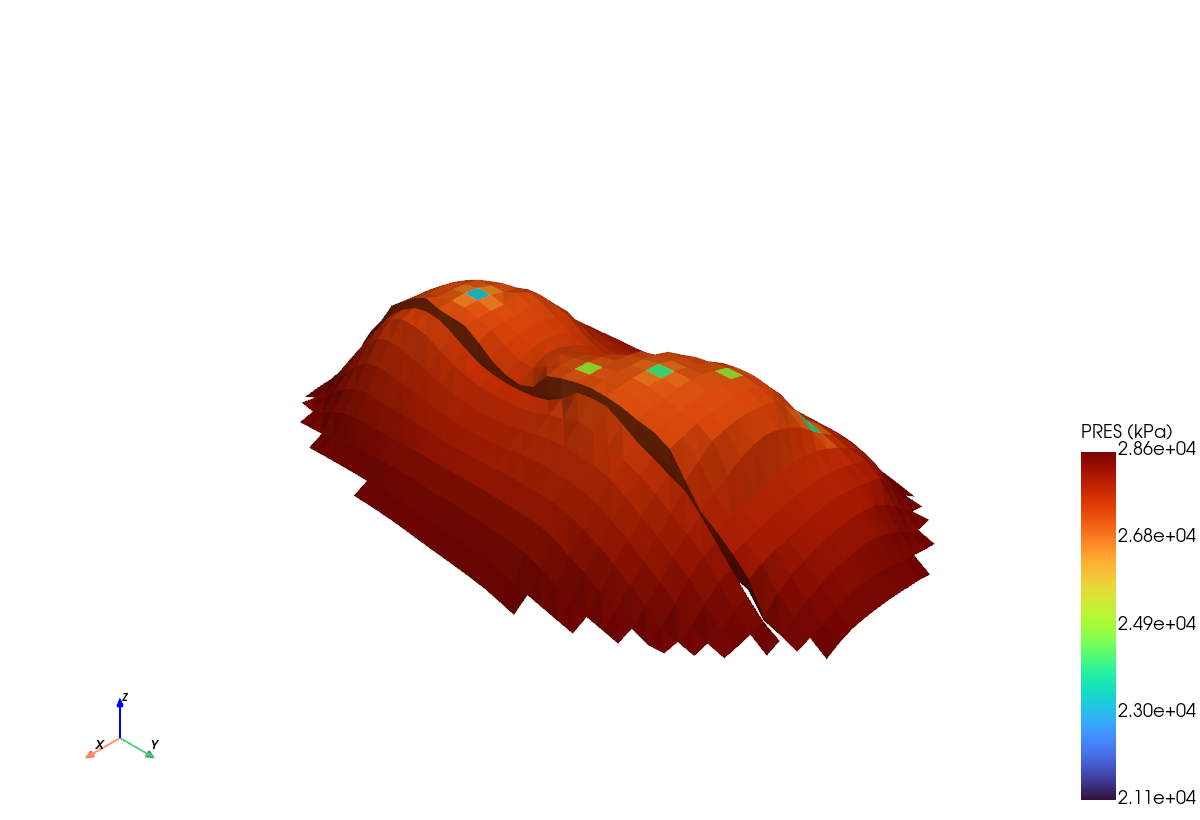
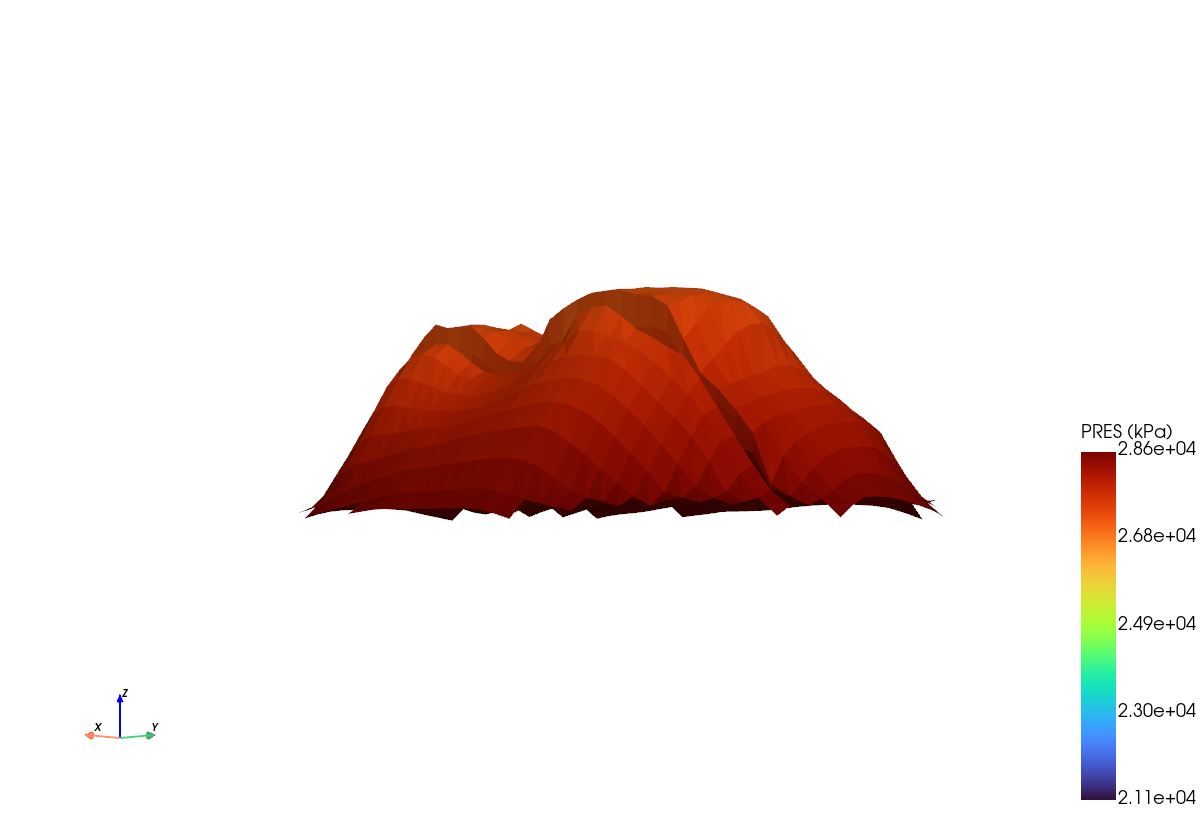
docs: use PyVista set_scale for display exaggeration; add comparison figure
- §3 now leads with the native Plotter.set_scale (view-only, no copy) and a
  flattened -> true -> exaggerated comparison image; helper uses scale/flip_z.
- §4 plots the true grid with set_scale(zscale=-8) instead of a points copy.

Changed region(s): [[0.2467, 0.3354, 0.8017, 0.7927], [0.0617, 0.8841, 0.1542, 0.9146]]

diff --git a/docs/user-guide/tutorials/inspect-hm-model.zh.md b/docs/user-guide/tutorials/inspect-hm-model.zh.md
@@ -62,18 +62,33 @@ PRES range: 21073.6 28643.4
 !!! tip "`.iloc[:, 0]`"
     `map_prop` 返回带标签的 DataFrame（每个关键字×时间对应一列）。对于单个关键字/时间步，`.iloc[:, 0].to_numpy()` 即为单元数组。
 
-## 3. 显示辅助函数（depth-up + 垂向夸张）
+## 3. 垂向夸张与 depth-up 显示
 
-该模型以**深度**形式存储 Z 值（正值，约 3000 m），且横向范围远大于纵向厚度。为获得良好的三维场景效果，需翻转为 Z 向上并对垂向进行夸张处理。此操作**仅用于显示**，切勿用于计算。
+该模型以**深度**形式存储 Z 值（正值，约 3000 m；横向约 4 km，而厚度仅约 180 m）——在真实比例下看起来像一张平板，因此三维场景通常会对垂向进行夸张，并翻转深度使浅部朝上。
+
+最简单的原生方式是 **`Plotter.set_scale`**，它只缩放*视图*。数据仍保持真实坐标，因此切片、映射和导出都不受影响——无需复制，也无需改写点数组：
 
 ```python
-def display_grid(grid, exaggerate=8.0):
-    """Return a depth-up, vertically exaggerated copy for visualization."""
-    disp = grid.copy(deep=True)
-    pts = np.asarray(disp.points).copy()
-    pts[:, 2] = (pts[:, 2].max() - pts[:, 2]) * exaggerate
-    disp.points = pts
-    return disp
+plotter.add_mesh(grid, scalars="PRES", cmap="turbo")
+plotter.set_scale(zscale=8)                      # 8x vertical exaggeration (display only)
+
+# each axis scales independently; a negative value flips that axis,
+# so a negative zscale turns positive-down depth into "up":
+plotter.set_scale(xscale=1, yscale=1, zscale=-8)
+```
+
+同一属性在真实比例（平坦）→ 中等夸张 → 强夸张下的对比：
+
+![垂向夸张](../../assets/images/guide_exaggeration.png)
+
+如果只是想*查看*网格，`set_scale` 已足够。下文有几节还会**切片和绘制等值线**，因此会构建一份显示副本——同样使用 PyVista 的原生缩放（`scale` + `flip_z`），而非手动改写点坐标：
+
+```python
+def display_grid(grid, exaggerate=6.0):
+    """Depth-up, vertically exaggerated copy — for display only, not for math."""
+    return grid.scale((1, 1, exaggerate), inplace=False).flip_z(inplace=False)
+
+disp = display_grid(grid)
 ```
 
 详见[坐标系与显示比例](../concepts/coordinate-system.md)中的原理说明。
@@ -84,16 +99,15 @@ def display_grid(grid, exaggerate=8.0):
 import pyvista as pv
 # pv.OFF_SCREEN = True   # uncomment on a headless server
 
-disp = display_grid(grid)
-
 plotter = pv.Plotter(window_size=(1200, 820))
 plotter.set_background("white")
 plotter.add_mesh(
-    disp,
+    grid,
     scalars="PRES",
     cmap="turbo",
     scalar_bar_args={"title": "PRES (kPa)", "vertical": True},
 )
+plotter.set_scale(zscale=-8)       # depth-up + 8x exaggeration (display only)
 plotter.add_axes()
 plotter.camera_position = "iso"
 plotter.show()                     # or: plotter.screenshot("pres_3d.png")

diff --git a/docs/user-guide/tutorials/inspect-hm-model.md b/docs/user-guide/tutorials/inspect-hm-model.md
@@ -73,20 +73,40 @@ PRES range: 21073.6 28643.4
     `map_prop` returns a labelled DataFrame (one column per keyword × time). For
     a single keyword/time, `.iloc[:, 0].to_numpy()` is the cell array.
 
-## 3. A display helper (depth-up + vertical exaggeration)
+## 3. Vertical exaggeration and depth-up display
 
-This model stores Z as **depth** (positive, ~3000 m) and is wide but thin. For
-nice 3D scenes, flip to Z-up and exaggerate the vertical. Keep this for
-*display only* — never for calculations.
+This model stores Z as **depth** (positive, ~3000 m over a ~4 km footprint that
+is only ~180 m thick) — at true scale it looks like a flat sheet, so 3D scenes
+usually exaggerate the vertical and flip depth so shallow is up.
+
+The simplest, native way is **`Plotter.set_scale`**, which scales only the
+*view*. Your data stays in true coordinates, so slicing, mapping and export are
+unaffected — no copy, no point-array edits:
 
 ```python
-def display_grid(grid, exaggerate=8.0):
-    """Return a depth-up, vertically exaggerated copy for visualization."""
-    disp = grid.copy(deep=True)
-    pts = np.asarray(disp.points).copy()
-    pts[:, 2] = (pts[:, 2].max() - pts[:, 2]) * exaggerate
-    disp.points = pts
-    return disp
+plotter.add_mesh(grid, scalars="PRES", cmap="turbo")
+plotter.set_scale(zscale=8)                      # 8x vertical exaggeration (display only)
+
+# each axis scales independently; a negative value flips that axis,
+# so a negative zscale turns positive-down depth into "up":
+plotter.set_scale(xscale=1, yscale=1, zscale=-8)
+```
+
+The same field at true scale (flat) → moderate → strong exaggeration:
+
+![Vertical exaggeration](../../assets/images/guide_exaggeration.png)
+
+When you only want to *look* at the grid, `set_scale` is all you need. A few
+sections below also **slice and contour** the geometry, so they build a display
+copy once — again with PyVista's native scaling (`scale` + `flip_z`), not manual
+point math:
+
+```python
+def display_grid(grid, exaggerate=6.0):
+    """Depth-up, vertically exaggerated copy — for display only, not for math."""
+    return grid.scale((1, 1, exaggerate), inplace=False).flip_z(inplace=False)
+
+disp = display_grid(grid)
 ```
 
 See [Coordinate system & display scale](../concepts/coordinate-system.md) for
@@ -98,16 +118,15 @@ the rationale.
 import pyvista as pv
 # pv.OFF_SCREEN = True   # uncomment on a headless server
 
-disp = display_grid(grid)
-
 plotter = pv.Plotter(window_size=(1200, 820))
 plotter.set_background("white")
 plotter.add_mesh(
-    disp,
+    grid,
     scalars="PRES",
     cmap="turbo",
     scalar_bar_args={"title": "PRES (kPa)", "vertical": True},
 )
+plotter.set_scale(zscale=-8)       # depth-up + 8x exaggeration (display only)
 plotter.add_axes()
 plotter.camera_position = "iso"
 plotter.show()                     # or: plotter.screenshot("pres_3d.png")
